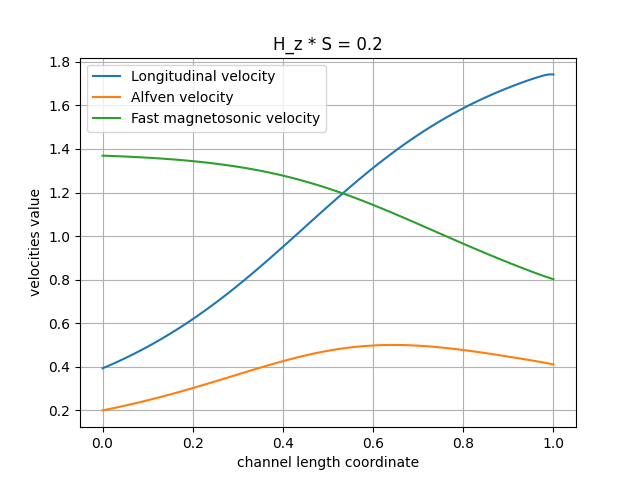
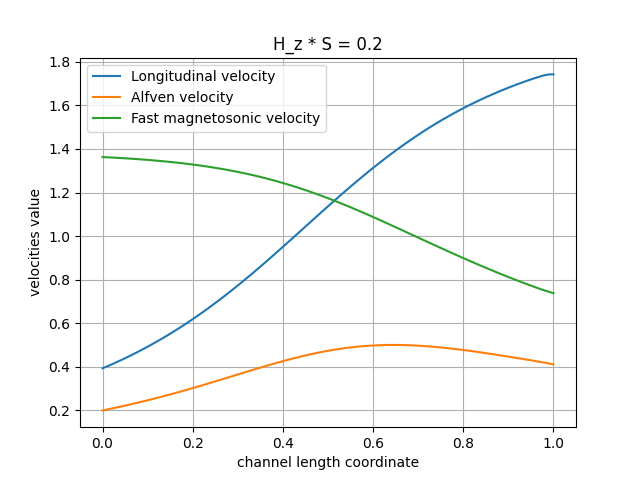
update critical flux

Changed region(s): [[0.1562, 0.3125, 0.875, 0.625]]

diff --git a/10-MGD_analysis/main.py b/10-MGD_analysis/main.py
@@ -285,7 +285,7 @@ def algorithm(i_max, n_max, k, gamma, beta, mu_0, rho_0, v_z_0, v_phi_0, h_z_s, 
 
 # mesh options
 
-I_max_main = 100
+I_max_main = 200
 N_max_main = 2500
 k_main = 0.5
 gamma_main = 1.67
@@ -740,7 +740,6 @@ plt.plot(x_lst, y_lst, label='S = 0.8(z - 0.5)^2 + 0.8')
 plt.legend()
 plt.show()
 
-'''
 # check intersection of velocities
 
 plt.title('H_z * S = 0')
@@ -756,8 +755,14 @@ for i_m in range(I_max_main + 1):
     y_lst[i_m] = H_z_mesh[i_m] / np.sqrt(rho_mesh[i_m])
 plt.plot(x_lst, y_lst, label='Alfven velocity')
 for i_m in range(I_max_main + 1):
-    y_lst[i_m] = np.sqrt(H_phi_mesh[i_m] ** 2 / rho_mesh[i_m] +
-                         H_z_mesh[i_m] ** 2 / rho_mesh[i_m] + gamma_main * p_mesh[i_m] / rho_mesh[i_m])
+    y_lst[i_m] = np.sqrt(1 / 2 * (H_phi_mesh[i_m] ** 2 / rho_mesh[i_m] +
+                                  H_z_mesh[i_m] ** 2 / rho_mesh[i_m] +
+                                  gamma_main * p_mesh[i_m] / rho_mesh[i_m]) +
+                         1 / 2 * np.sqrt((H_phi_mesh[i_m] ** 2 / rho_mesh[i_m] +
+                                          H_z_mesh[i_m] ** 2 / rho_mesh[i_m] +
+                                          gamma_main * p_mesh[i_m] / rho_mesh[i_m]) ** 2 -
+                                         4 * gamma_main * p_mesh[i_m] / rho_mesh[i_m] *
+                                         H_z_mesh[i_m] ** 2 / rho_mesh[i_m]))
 plt.plot(x_lst, y_lst, label='Fast magnetosonic velocity')
 plt.legend()
 plt.show()
@@ -775,11 +780,18 @@ for i_m in range(I_max_main + 1):
     y_lst[i_m] = H_z_mesh[i_m] / np.sqrt(rho_mesh[i_m])
 plt.plot(x_lst, y_lst, label='Alfven velocity')
 for i_m in range(I_max_main + 1):
-    y_lst[i_m] = np.sqrt(H_phi_mesh[i_m] ** 2 / rho_mesh[i_m] +
-                         H_z_mesh[i_m] ** 2 / rho_mesh[i_m] + gamma_main * p_mesh[i_m] / rho_mesh[i_m])
+    y_lst[i_m] = np.sqrt(1 / 2 * (H_phi_mesh[i_m] ** 2 / rho_mesh[i_m] +
+                                  H_z_mesh[i_m] ** 2 / rho_mesh[i_m] +
+                                  gamma_main * p_mesh[i_m] / rho_mesh[i_m]) +
+                         1 / 2 * np.sqrt((H_phi_mesh[i_m] ** 2 / rho_mesh[i_m] +
+                                          H_z_mesh[i_m] ** 2 / rho_mesh[i_m] +
+                                          gamma_main * p_mesh[i_m] / rho_mesh[i_m]) ** 2 -
+                                         4 * gamma_main * p_mesh[i_m] / rho_mesh[i_m] *
+                                         H_z_mesh[i_m] ** 2 / rho_mesh[i_m]))
 plt.plot(x_lst, y_lst, label='Fast magnetosonic velocity')
 plt.legend()
 plt.show()
+'''
 
 plt.title('H_z * S = 0.5')
 plt.xlabel('channel length coordinate')
@@ -794,8 +806,14 @@ for i_m in range(I_max_main + 1):
     y_lst[i_m] = H_z_mesh[i_m] / np.sqrt(rho_mesh[i_m])
 plt.plot(x_lst, y_lst, label='Alfven velocity')
 for i_m in range(I_max_main + 1):
-    y_lst[i_m] = np.sqrt(H_phi_mesh[i_m] ** 2 / rho_mesh[i_m] +
-                         H_z_mesh[i_m] ** 2 / rho_mesh[i_m] + gamma_main * p_mesh[i_m] / rho_mesh[i_m])
+    y_lst[i_m] = np.sqrt(1 / 2 * (H_phi_mesh[i_m] ** 2 / rho_mesh[i_m] +
+                                  H_z_mesh[i_m] ** 2 / rho_mesh[i_m] +
+                                  gamma_main * p_mesh[i_m] / rho_mesh[i_m]) +
+                         1 / 2 * np.sqrt((H_phi_mesh[i_m] ** 2 / rho_mesh[i_m] +
+                                          H_z_mesh[i_m] ** 2 / rho_mesh[i_m] +
+                                          gamma_main * p_mesh[i_m] / rho_mesh[i_m]) ** 2 -
+                                         4 * gamma_main * p_mesh[i_m] / rho_mesh[i_m] *
+                                         H_z_mesh[i_m] ** 2 / rho_mesh[i_m]))
 plt.plot(x_lst, y_lst, label='Fast magnetosonic velocity')
 plt.legend()
 plt.show()
